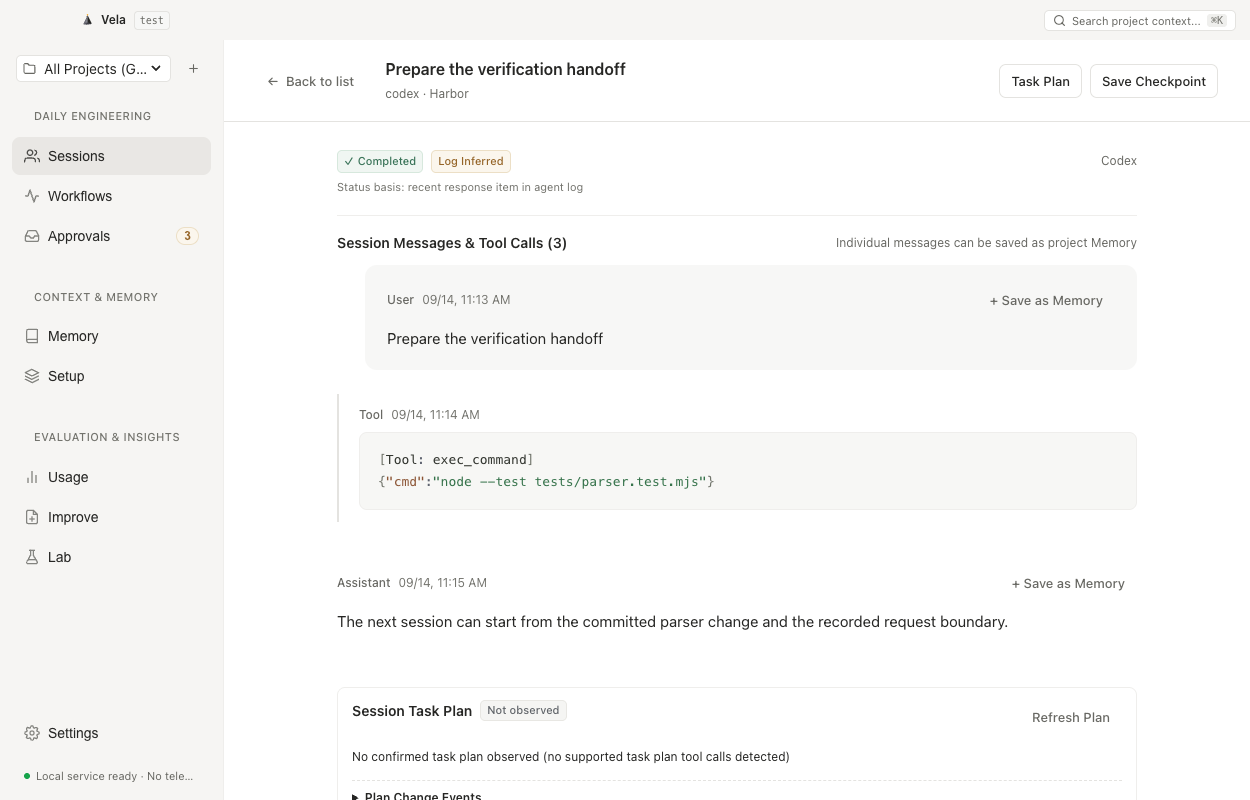
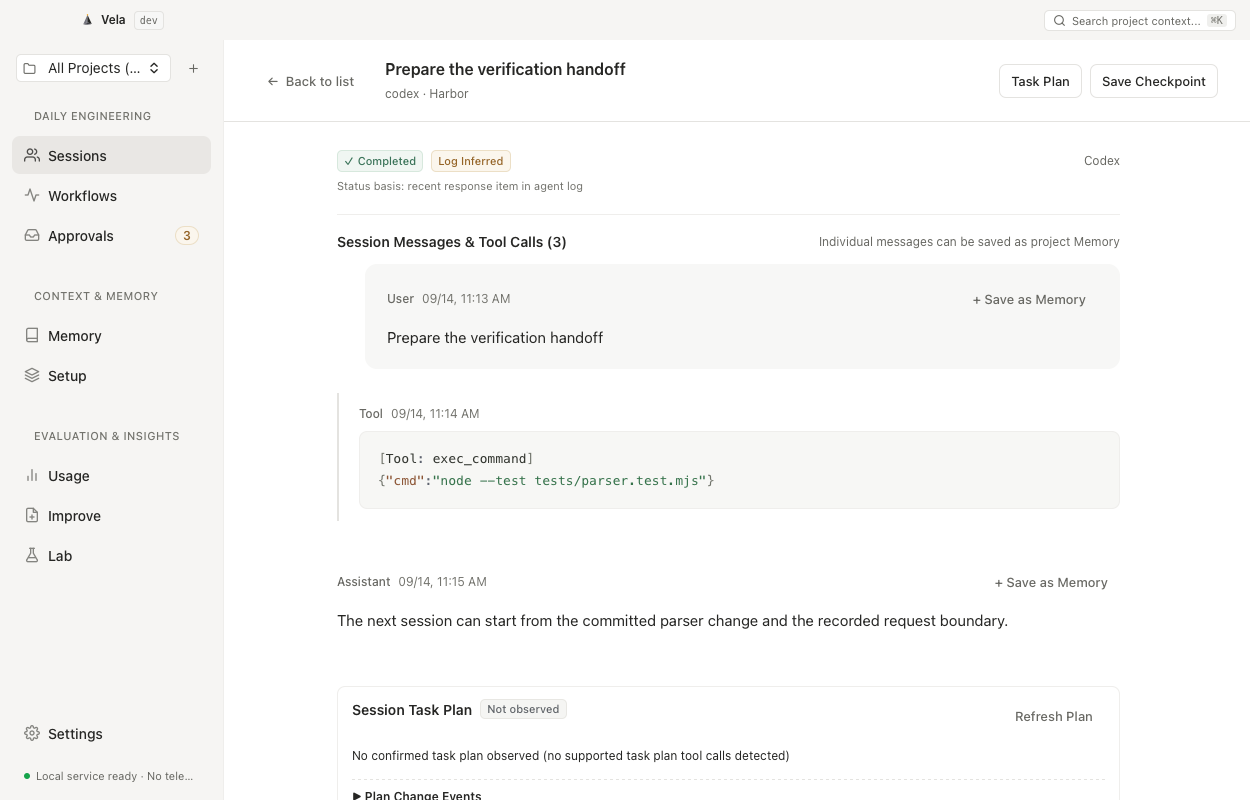
Verify the native reading workspace and correct bilingual catalogue counts

diff --git a/website/dist/site.js b/website/dist/site.js
@@ -345,8 +345,8 @@
         // Update localized live status text
         if (statusEl) {
           statusEl.textContent = isEn
-            ? `Showing ${visibleCount} of 4 scenarios`
-            : `显示 ${visibleCount} / 4 个场景`;
+            ? `Showing ${visibleCount} of ${taskRows.length} scenarios`
+            : `显示 ${visibleCount} / ${taskRows.length} 个场景`;
         }
       });
     });

diff --git a/website/dist/en/index.html b/website/dist/en/index.html
@@ -145,7 +145,7 @@
             class="product-screenshot-img"
           >
           <div class="screenshot-caption">
-            <span>Development UI · Local browser verification with the real helper · Synthetic data</span>
+            <span>Actual macOS development UI · Native WKWebView · Synthetic data</span>
           </div>
         </div>
       </div>

diff --git a/website/dist/index.html b/website/dist/index.html
@@ -145,7 +145,7 @@
             class="product-screenshot-img"
           >
           <div class="screenshot-caption">
-            <span>开发版界面 · 本机浏览器连接真实 helper 验证 · 合成示例数据</span>
+            <span>macOS 开发版实图 · 原生 WKWebView · 合成示例数据</span>
           </div>
         </div>
       </div>

diff --git a/docs/implementation/reading-workspace-2026-09-14.md b/docs/implementation/reading-workspace-2026-09-14.md
@@ -6,7 +6,7 @@ Memory separates status filters from three primary controls: Ask, Tools and New 
 
 Session prose and approval files now use local Markdown rendering, bounded syntax highlighting and full source inspection. Approval content is no longer clipped to three lines. Copy retains the exact original text including leading/trailing newlines and CRLF. Raw HTML, images and links cannot trigger scripts or network requests. [ADR 0047](../adr/0047-local-rich-content-and-reading-workspace.md) and the [vendor lock](renderer-vendor-lock.json) document dependency, packaging and security boundaries.
 
-The bilingual site contains 32 pages: Product (12 capability areas), Use Cases (8 actual engineering tasks), Integrations, Comparisons, Docs, Releases and Privacy. The homepage has a restrained multicolour final headline. Public download links still target preview.2; source-only capabilities are identified. Current redesign screenshots are explicitly labelled local browser verification with a real helper, not native verification.
+The bilingual site contains 32 pages: Product (12 capability areas), Use Cases (8 actual engineering tasks), Integrations, Comparisons, Docs, Releases and Privacy. The homepage has a restrained multicolour final headline. Public download links still target preview.2; source-only capabilities are identified. The homepage and README show an actual native WKWebView development capture with synthetic data; released preview.2 screenshots retain their own labels.
 
 ## Local evidence
 
@@ -19,19 +19,27 @@ All flows below used synthetic local records and the real Swift helper, not user
 | Run-feedback initial read race, errors, stale project/run/close, header geometry | 4/4 | `reading-feedback-drawer-r7` |
 | Session-to-memory provenance, confirmation, idempotency and scope guards | 5/5 | `reading-memory-capture-r3` |
 | Locale surfaces, preserved user content, selected records and menus | 6/6 | `reading-localization-r2` |
-| Memory lifecycle and reuse Apply/Undo diagnostic subset | 2/2 (subset) | `reading-acceptance-menu-r2` |
+| Full renderer flow, guards and existing actions | 12/12 | `reading-full-ui-browser-r2` |
+| Full parity browser journeys | 5/5 | `reading-full-parity-r1` |
+| Full Memory lifecycle and reuse acceptance | 6/6 | `reading-full-acceptance-r1` |
 | Rich content injection, code rendering, exact copy, large text and locale | 6/6 | `reading-final-rich` |
 | Ask and engineering consumers after bridge cache fix | 11/11 | `engineering` |
-| Bilingual website links/resources/locale/responsive behaviour | 32 pages, zero failures | `website-reading-r3` |
+| Bilingual website links/resources/locale/responsive behaviour | 32 pages, zero failures | `website-reading-r6` (including 10 bilingual category/count/ARIA checks and the final native image) |
 
 Earlier failed runs are retained: a missing nested English asset prefix, a navigation scroll-position defect, old split-view test paths and old plain-text viewer selectors were corrected. Passing suites record source hashes. Earlier slice runs do not replace later source verification.
 
 A separate test-bridge bug caused the previous GitHub CI failure: an approval delivered by `ask.get` was not cached as a displayed approval. The fixture bridge now records the exact returned approval identity just as it does for Inbox. It still checks project, snapshot hash, tool and arguments; no product approval checks were weakened.
 
+## Native observations
+
+After the Mac became available, the actual AppKit/WKWebView QA wrapper was launched against the isolated fixture. Session reading, code highlighting, Memory tool disclosure and Escape, approval Markdown/Source/Copy feedback, language switching and quit/relaunch persistence were observed. Clicking Approve & Run wrote the expected 50 bytes to `Harbor/docs/verification.md`; the approval count changed from three to two and remained two after restart. Sound preview reported success without requesting OS notification permission. This records the action result, not an acoustic evaluation or notification delivery.
+
+The [native receipt](../evidence/2026-09-14-reading-native.json) includes 21 renderer resource hashes and the unedited screenshot hashes. The dev package at `releases/development-953d5a0` contains the same renderer bytes. Its release executable is distinct from the development QA host. Full native feature coverage, signed installation and system notifications remain separate gates.
+
 ## Remaining boundaries
 
-Native WKWebView interaction for this specific redesign is pending because macOS is locked. No browser screenshot is counted as native completion. The build is arm64, ad-hoc signed and unnotarized. This UI revision does not close the 188/228 requirement ledger or all release gates. The earlier 514-test CI core result belongs to its recorded commit and is not a new full-product acceptance result.
+This redesign has focused native evidence, not full product native completion. The build is arm64, ad-hoc signed and unnotarized. This UI revision does not close the 188/228 requirement ledger or all release gates. The earlier 514-test CI core result belongs to its recorded commit and is not a new full-product acceptance result.
 
 ## 中文说明
 
-本轮直接重构主区阅读、Memory 菜单、审批格式化预览与完整源码，修复跨页面遗留滚动位置。官网扩为 32 个中英文页面、12 项能力和 8 个场景。上表为真实本地 helper 浏览器检查，原生交互仍待 Mac 解锁后验证；总体功能和发布验收没有因此标记全部完成。
+本轮直接重构主区阅读、Memory 菜单、审批格式化预览与完整源码，修复跨页面遗留滚动位置。官网扩为 32 个中英文页面、12 项能力和 8 个场景。上表为真实本地 helper 浏览器检查；本机原生已验证阅读、菜单、审批文件写入、语言及重启持久化，并保留真实截图。总体功能和发布验收没有因此标记全部完成。

diff --git a/docs/status.md b/docs/status.md
@@ -8,7 +8,7 @@
 
 本次由 Codex 直接实现，覆盖主区会话阅读、Memory 常用操作与工具菜单、完整审批 Markdown/源码预览和本地语法高亮。显式页面导航重置阅读位置，后台刷新保持位置；项目、记录与审批的 Core 边界保持。官网扩为 32 个中英文页面，包含 12 项产品能力、8 个使用场景和集成栏目。公开下载仍为 preview.2。
 
-本机真实 helper 浏览器回归及来源见[重构验收记录](implementation/reading-workspace-2026-09-14.md)。新一轮原生 WKWebView 交互验证因 Mac 锁屏尚待完成，不能用浏览器截图代替真机通过。原有 188/228 项总体需求台账和发布门槛仍未全部完成。
+本机真实 helper 浏览器回归及来源见[重构验收记录](implementation/reading-workspace-2026-09-14.md)。本轮已在原生 WKWebView 中验证会话阅读、Memory 菜单、审批预览/源码/复制反馈、实际批准文件写入、中文切换与重启持久化；[原生证据](evidence/2026-09-14-reading-native.json)记录范围和限制。这些有限路径不等于完整真机验收。原有 188/228 项总体需求台账和发布门槛仍未全部完成。
 
 ## 当前源码
 

diff --git a/docs/assets/README.md b/docs/assets/README.md
@@ -11,4 +11,4 @@ The native WebKit viewport is exported without visual editing by the development
 
 The Vela icon and notification sound source files, generation details and license are documented under `Sources/VelaApp/Resources/Design/`. Website font licenses accompany the self-hosted font files. Third-party product references are not redistributed as Vela assets.
 
-`vela-reading.png` shows the current development renderer with the real local Swift helper and synthetic records, captured during `reading-workspace-r2` browser verification at 1250 × 800. It is not a native WKWebView verification receipt. The old native screenshots remain separate historical assets.
+`vela-reading.png` is the actual native WKWebView viewport at 1250 × 800 from source `953d5a0`, captured without pixel editing during `native-reading-r2` using the real Swift helper and synthetic records. [Capture hashes and focused native observations](../evidence/2026-09-14-reading-native.json) distinguish this development QA wrapper from a notarized release and full product acceptance. Older native screenshots remain separate historical assets.

diff --git a/README.md b/README.md
@@ -38,7 +38,7 @@
 </p>
 
 <p align="center">
-  <em>Current development interface, verified locally in a browser against the real Swift helper and an isolated synthetic project. Native WKWebView verification of this redesign is pending; this UI is not included in the preview.2 download.</em>
+  <em>Actual macOS development interface, captured in WKWebView against the real Swift helper and isolated synthetic projects. Reading, Memory menus, approval execution and language persistence were checked locally. This UI is not included in the preview.2 download.</em>
 </p>
 
 ## What you can use

diff --git a/README.zh-CN.md b/README.zh-CN.md
@@ -38,7 +38,7 @@
 </p>
 
 <p align="center">
-  <em>当前开发版界面：已在本机浏览器中通过真实 Swift helper 与隔离合成工程验证。本次重构的原生 WKWebView 验证仍待完成；此界面尚未包含在 preview.2 下载中。</em>
+  <em>当前 macOS 开发版实图：原生 WKWebView 连接真实 Swift helper 与隔离合成工程。本机已检查会话阅读、Memory 菜单、审批执行及语言持久化；此界面尚未包含在 preview.2 下载中。</em>
 </p>
 
 ## 当前可用能力
